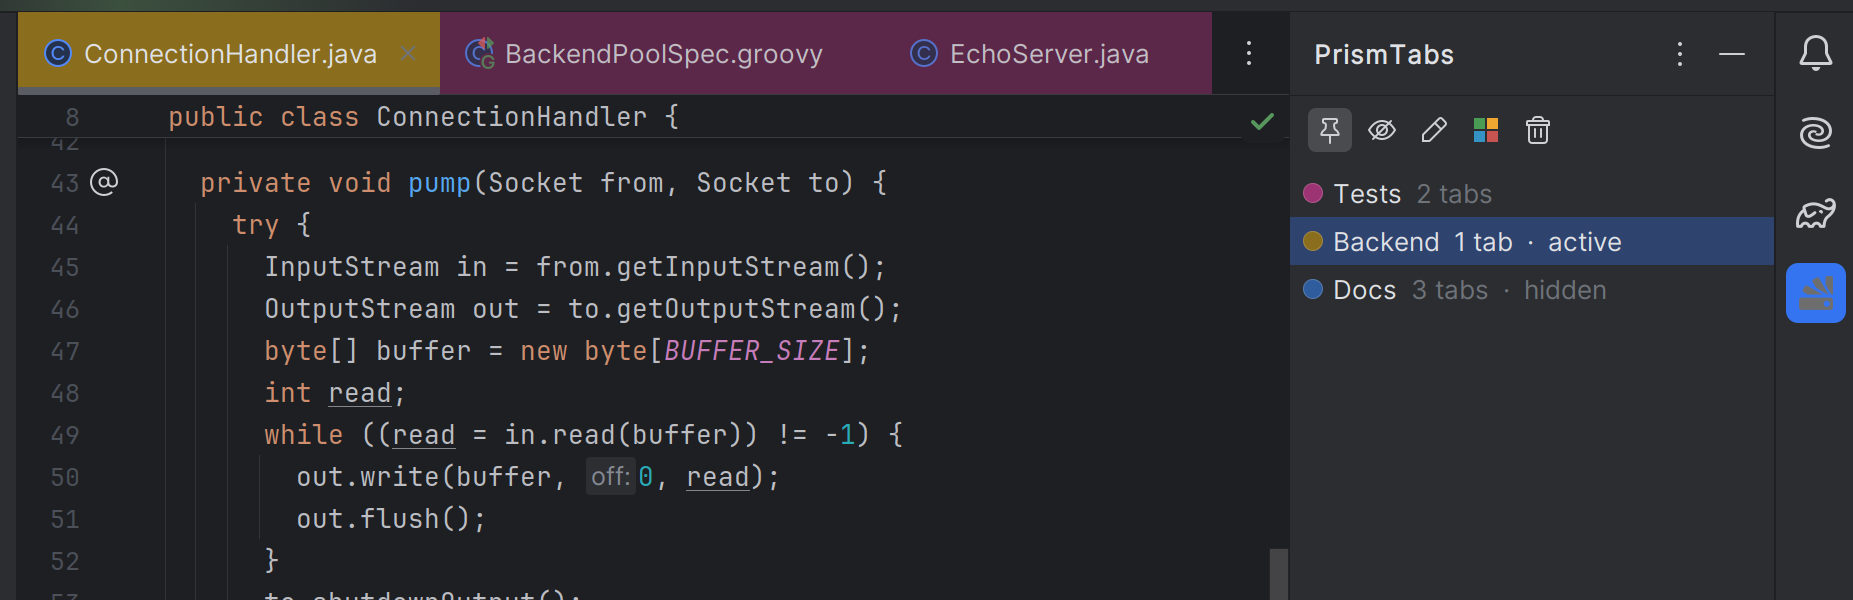
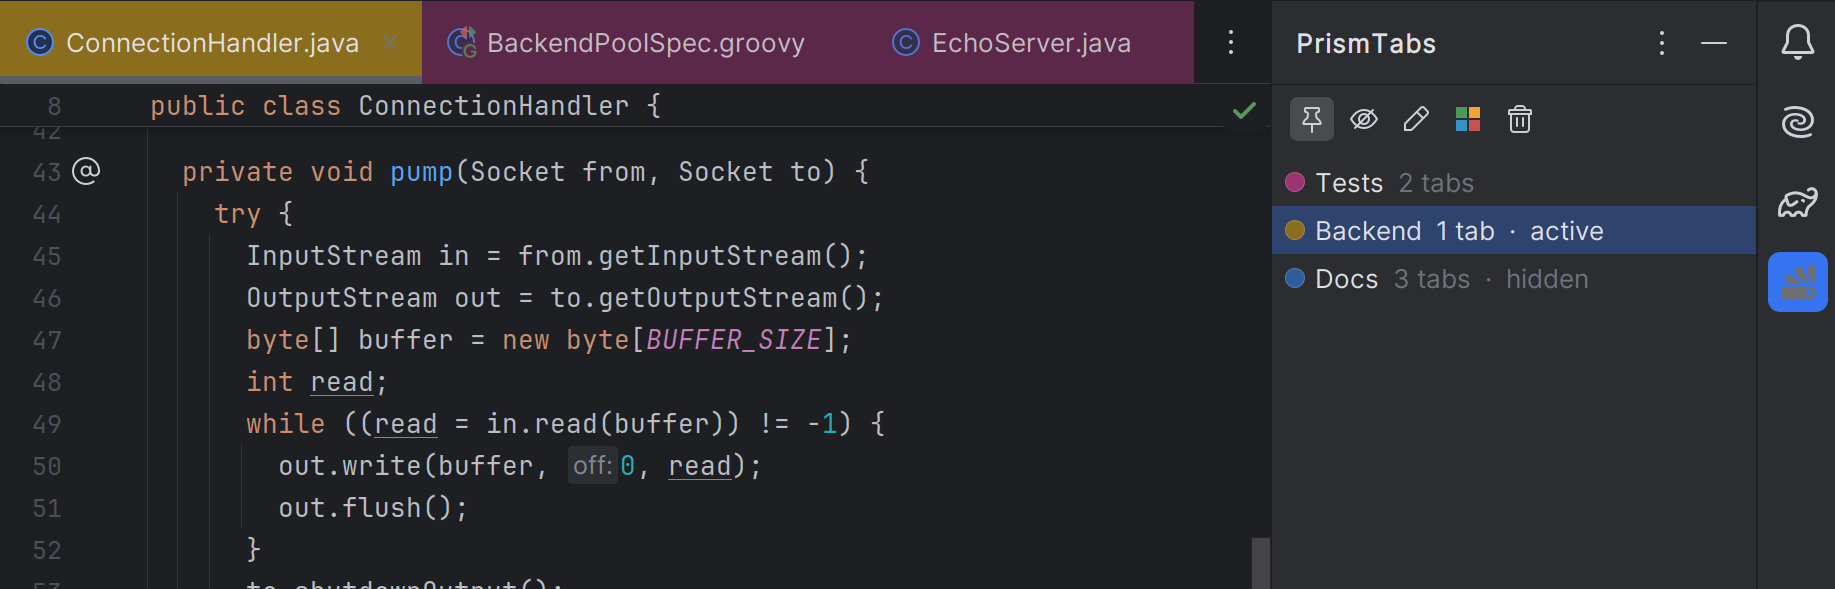
fix(home): trim residual window chrome from the hero screenshots
Both hero tool-window shots carried a slim strip of leftover IDE chrome
on two edges: a near-black band across the top (about 11px, most obvious
against the light theme) and a lighter gutter-margin band down the left
(about 18px, most obvious against the dark theme). Both read as stray
stripes once the image sat inside the framed, rounded hero container.

Crop both variants identically to 1835x589 so the editor tabs now sit
flush to the top and left edges. The two crops keep matching dimensions,
so switching themes still causes no layout shift. Update the width and
height attributes on both <img> tags to the new intrinsic size.

diff --git a/index.html b/index.html
@@ -73,15 +73,15 @@
           <img
             class="hero-shot-dark"
             src="assets/hero-tool-window-dark.png"
-            width="1853"
-            height="600"
+            width="1835"
+            height="589"
             alt="PrismTabs in IntelliJ IDEA: three editor tabs tinted by group, next to the PrismTabs tool window listing the Tests, Backend and Docs groups — Backend marked active, Docs hidden — with pin, hide, rename, recolour and delete actions in the toolbar."
           />
           <img
             class="hero-shot-light"
             src="assets/hero-tool-window-light.png"
-            width="1853"
-            height="600"
+            width="1835"
+            height="589"
             alt="PrismTabs in IntelliJ IDEA: three editor tabs tinted by group, next to the PrismTabs tool window listing the Tests, Backend and Docs groups — Backend marked active, Docs hidden — with pin, hide, rename, recolour and delete actions in the toolbar."
           />
         </div>
